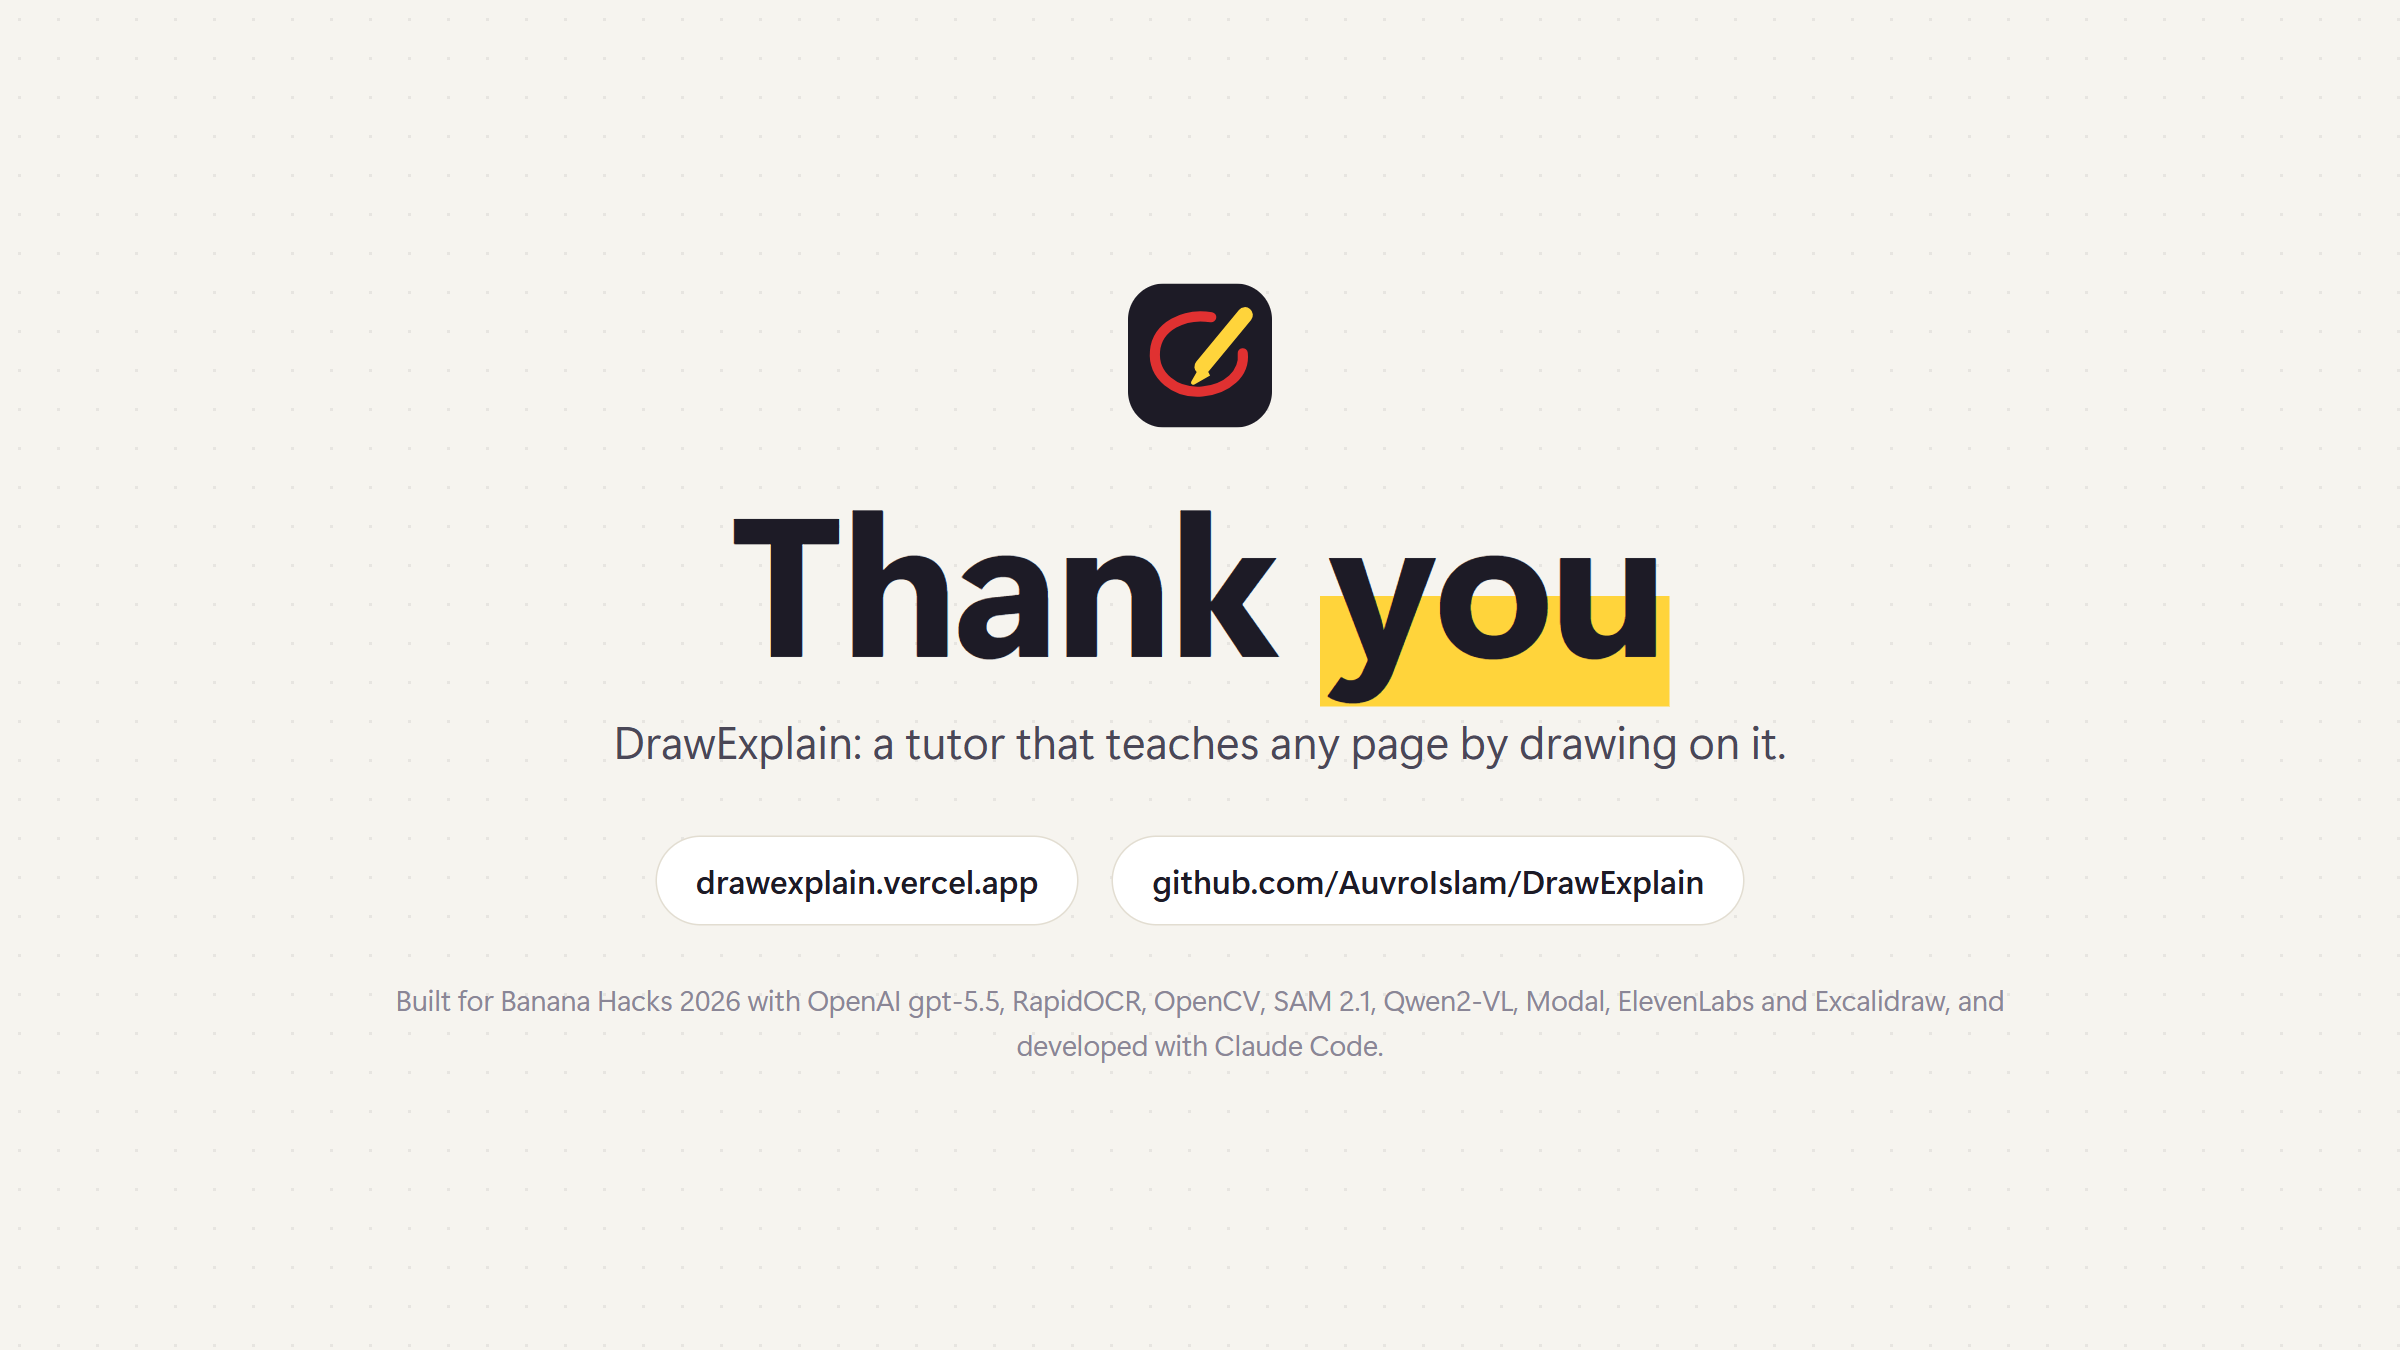
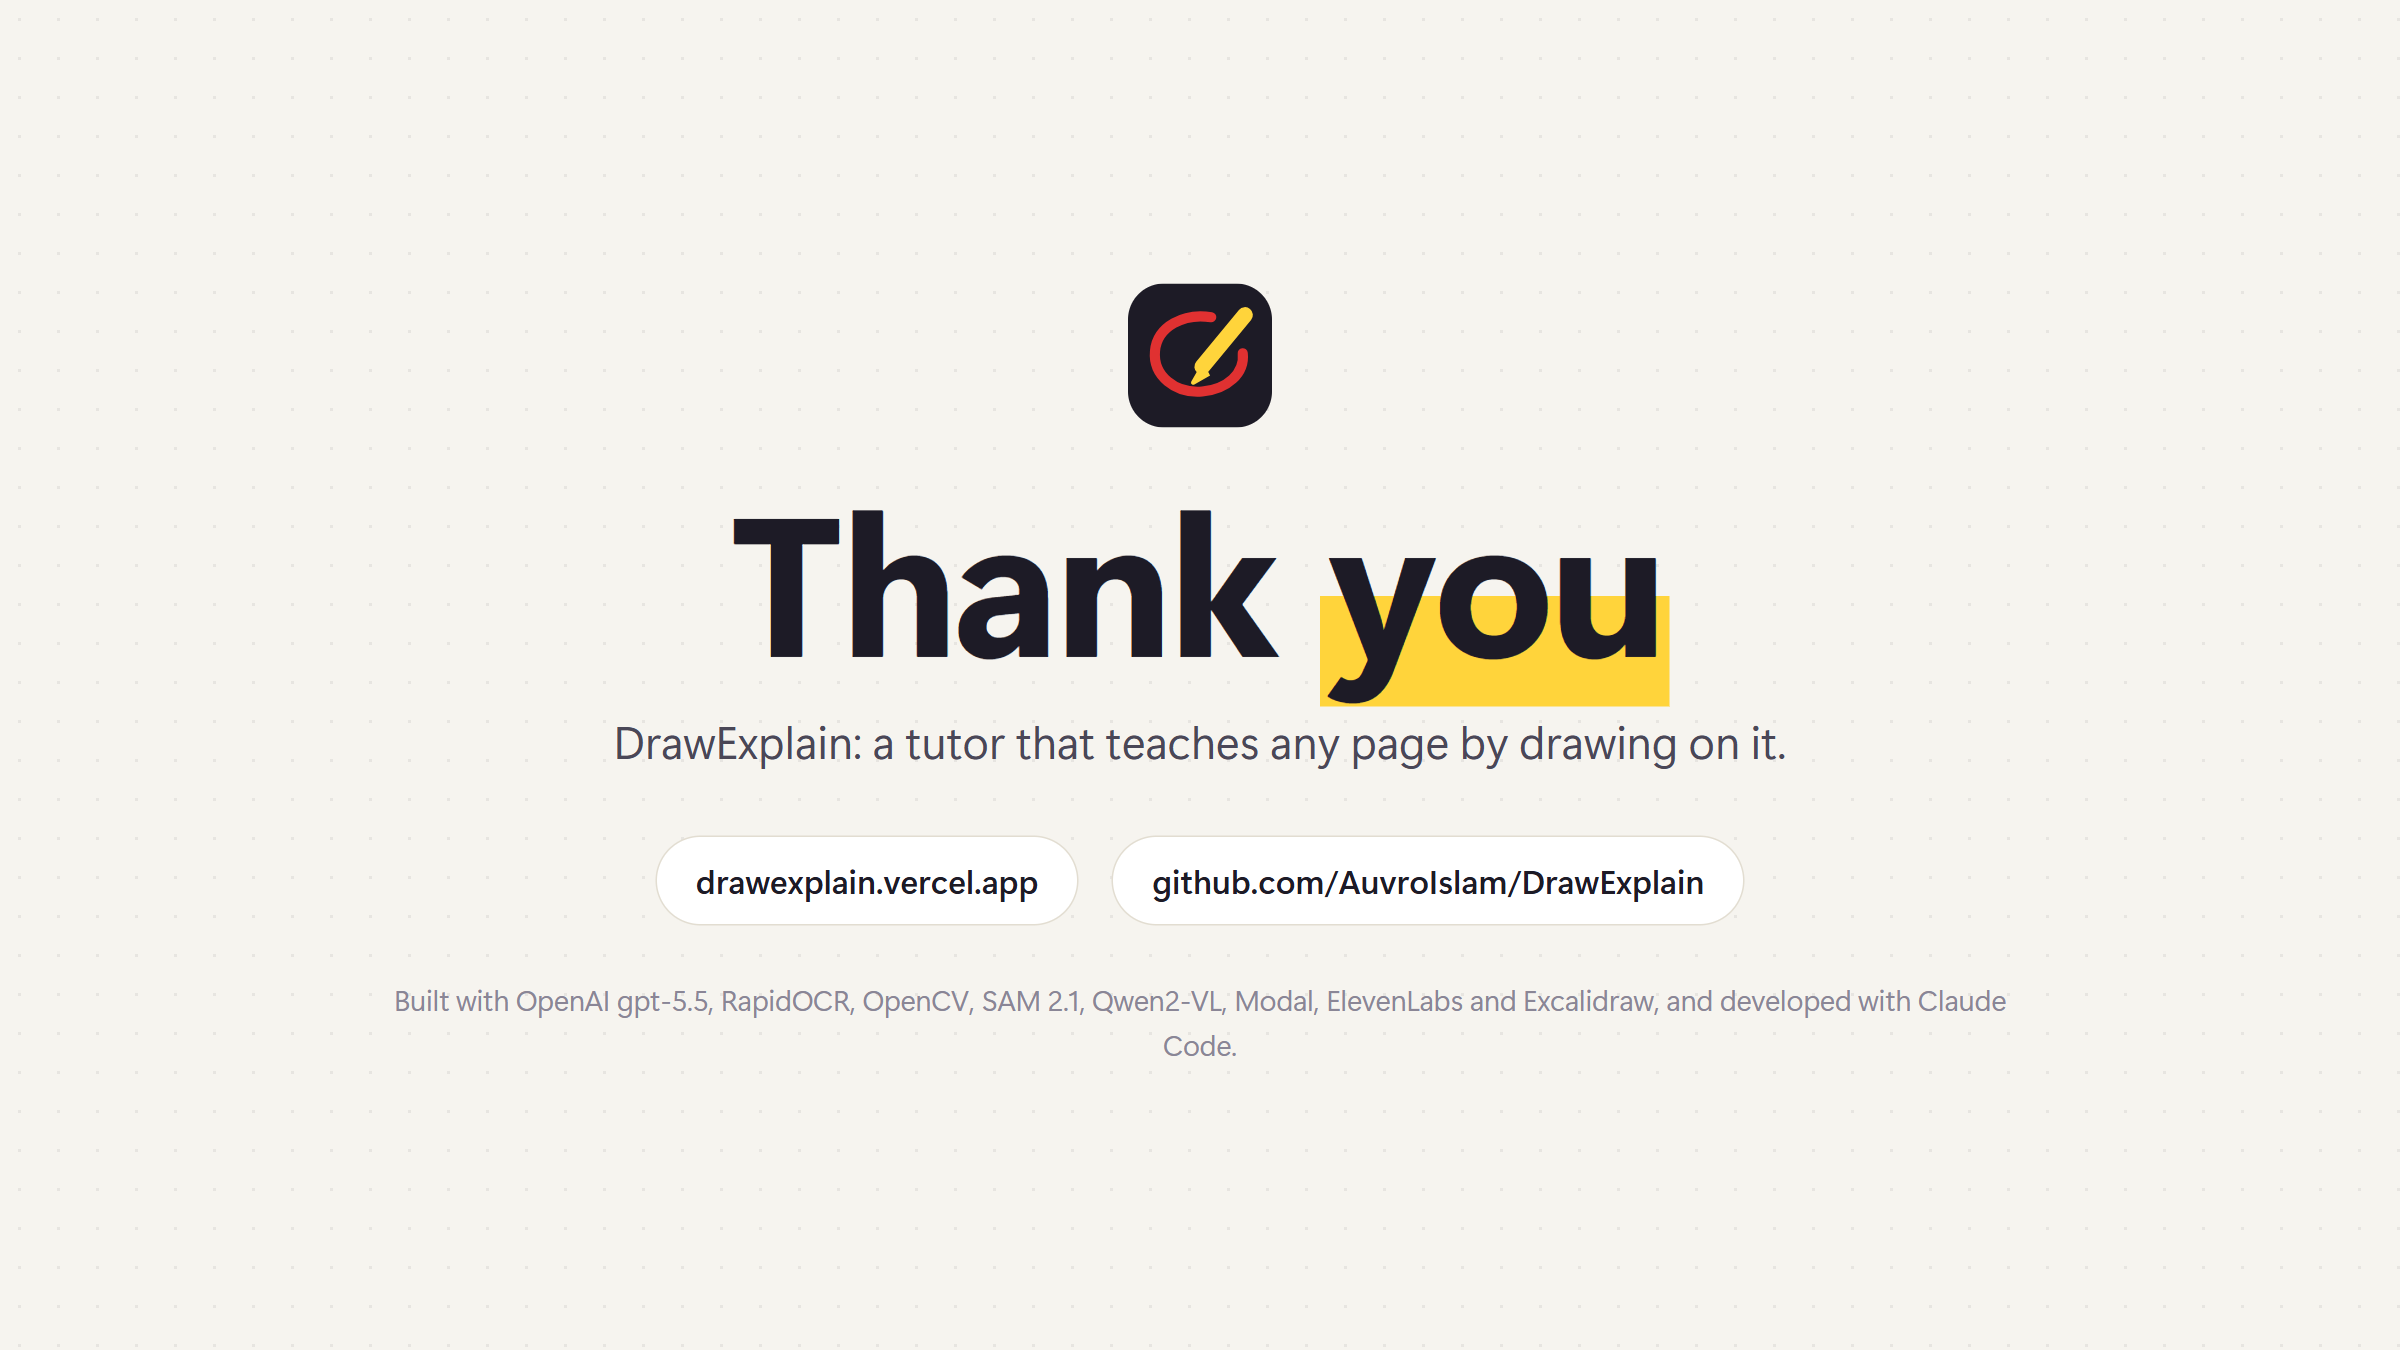
Remove hackathon name from README and graphic

Changed region(s): [[0.1562, 0.7156, 0.8438, 0.7778]]

diff --git a/docs/graphics/source/graphics.html b/docs/graphics/source/graphics.html
@@ -288,7 +288,7 @@
     <h1>Thank <span class="hl">you</span></h1>
     <p class="lead">DrawExplain: a tutor that teaches any page by drawing on it.</p>
     <div class="links"><span>drawexplain.vercel.app</span><span>github.com/AuvroIslam/DrawExplain</span></div>
-    <p class="credits">Built for Banana Hacks 2026 with OpenAI gpt-5.5, RapidOCR, OpenCV, SAM 2.1, Qwen2-VL, Modal,
+    <p class="credits">Built with OpenAI gpt-5.5, RapidOCR, OpenCV, SAM 2.1, Qwen2-VL, Modal,
       ElevenLabs and Excalidraw, and developed with Claude Code.</p>
   </div>
 </section>

diff --git a/README.md b/README.md
@@ -8,7 +8,7 @@ teacher at a whiteboard.
 - Live app: https://drawexplain.vercel.app
 - Demo video: https://youtu.be/zywVs08X2wk
 - Code: https://github.com/AuvroIslam/DrawExplain
-- Built for Banana Hacks 2026 (image AI). Write-up: [docs/WRITEUP.md](docs/WRITEUP.md)
+- Write-up: [docs/WRITEUP.md](docs/WRITEUP.md)
 
 <p align="center">
   <a href="https://youtu.be/zywVs08X2wk"><img src="docs/graphics/video-thumbnail.jpg" alt="Watch the DrawExplain demo on YouTube" width="820" /></a>
